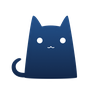
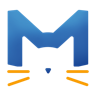
panel(内核图标): Mihomo 图标换成与上游 v0.1.487 一致的 M 标志(侧栏、内核切换、版本行共用 KernelIcon)

diff --git a/panel/src/components/kernel/KernelIcon.vue b/panel/src/components/kernel/KernelIcon.vue
@@ -1,10 +1,10 @@
 <template>
   <!-- 内核小图标:用在侧栏底部资源卡上方的「内核」那一行(对齐上游的 KernelIcon)。
        尺寸与上游一致:16px 见方、object-contain、空 alt(纯装饰,名字在旁边的 span 里)。
-       图形来源都是内核项目自己的公开 resource,不是上游打包产物:
+       图形来源:
        - sing-box:SagerNet/sing-box 组织的头像(即 sing-box 的 logo);
-       - Mihomo:MetaCubeX/mihomo 仓库 docs/logo.png。
-       两张都缩到 96px 入库,避免面板里多背大图。 -->
+       - Mihomo:与上游 v0.1.487 一致的 "M" 标志(96px,取自上游打包的 mihomo 图标)。
+       两张都是 96px 入库,避免面板里多背大图。 -->
   <img
     :src="kernel === 'mihomo' ? mihomoLogo : singboxLogo"
     alt=""
